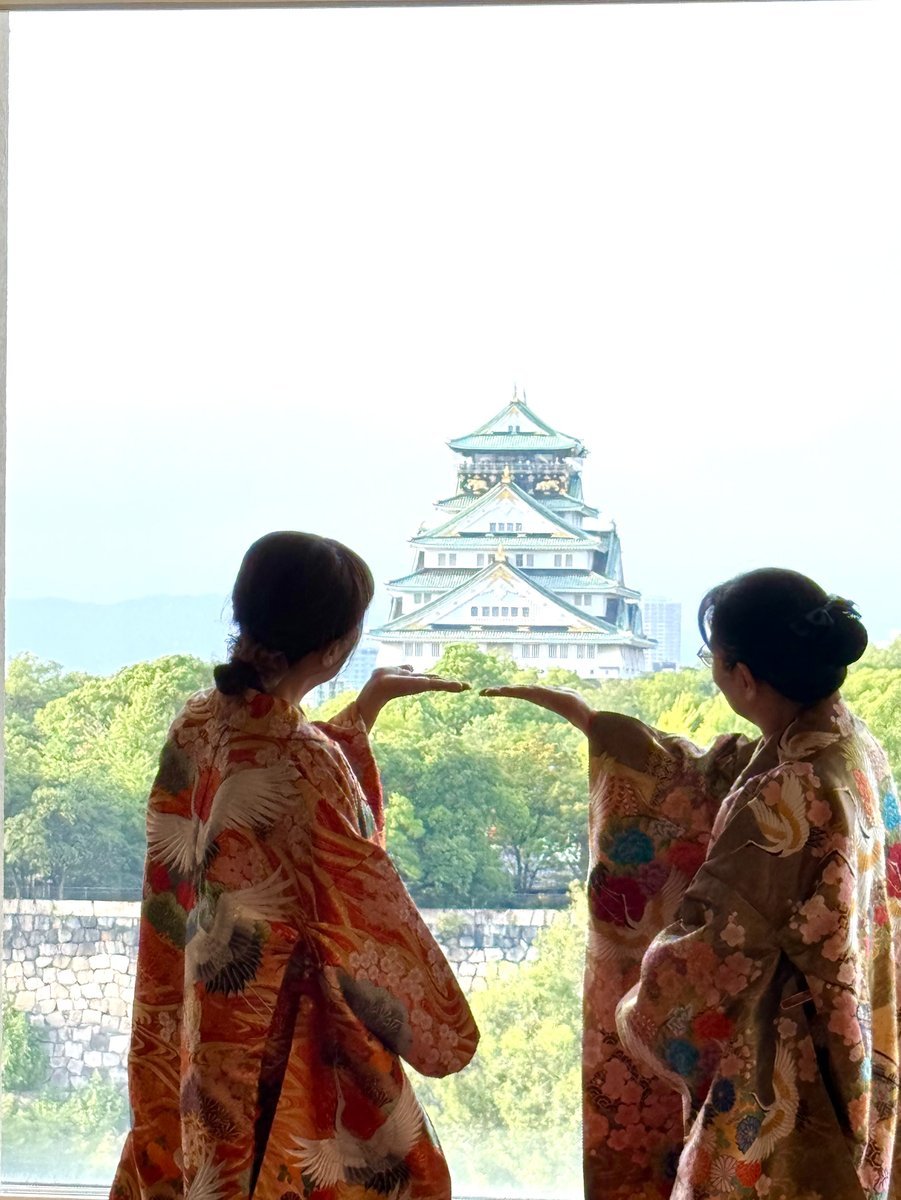
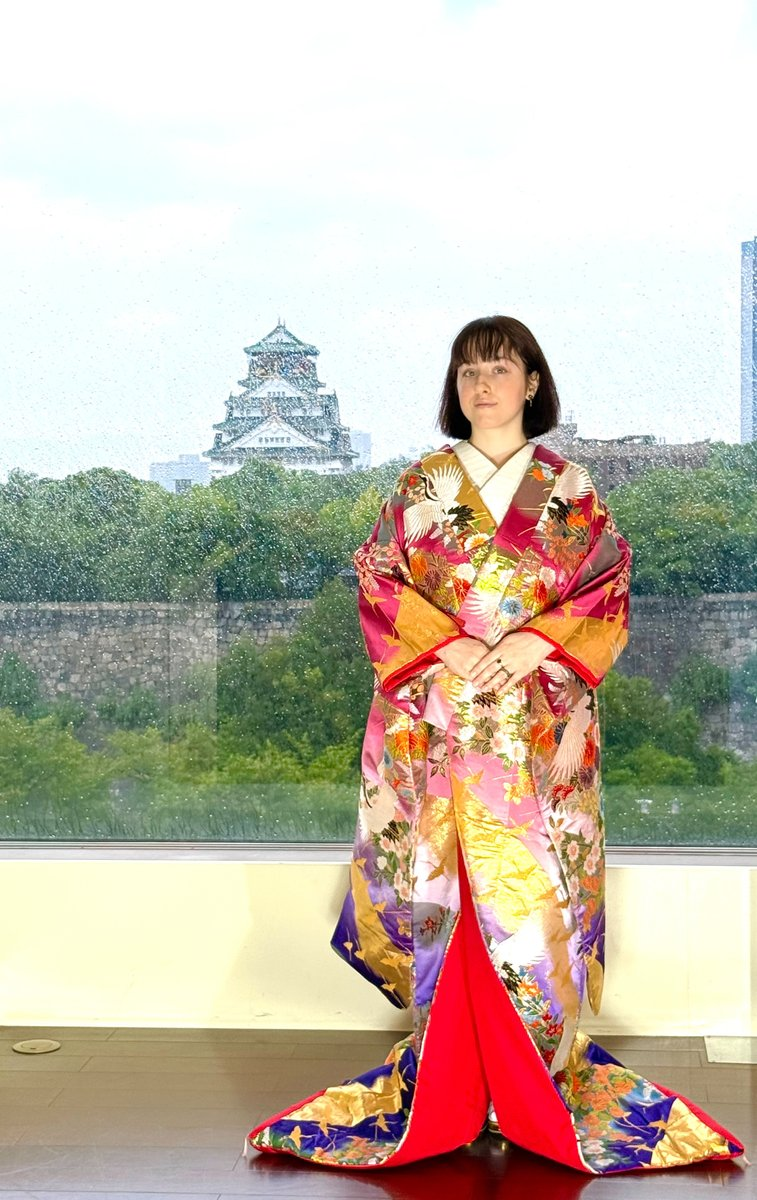
Let each plan's photo button show more than one shot
taiken/honkaku now each open a small set (front, side, back)
instead of a single fixed image, so a guest can see the plan
from more than one angle before choosing. Missing files still
degrade gracefully, same as the existing gallery.

diff --git a/index.html b/index.html
@@ -2052,12 +2052,12 @@
    * 押しても何も出ないほうが、お客様には不具合に見える。
    */
   var MENU_PHOTOS = {
-    taiken: 'images/taiken.jpg',
-    honkaku: 'images/honkaku.jpg',
+    taiken: ['images/taiken.jpg', 'images/kimono-11.jpg', 'images/kimono-12.jpg'],
+    honkaku: ['images/honkaku.jpg', 'images/kimono-13.jpg', 'images/kimono-14.jpg'],
   };
 
-  /** 写真が実在するか（調べ終わるまで undefined） */
-  var photoExists = {};
+  /** 実在が確認できた分だけ入る（調べ終わるまで undefined） */
+  var menuPhotosAvailable = {};
 
   /**
    * 導入スライドに流す写真。
@@ -2093,6 +2093,10 @@
     'images/kimono-8.jpg',
     'images/kimono-9.jpg',
     'images/kimono-10.jpg',
+    'images/kimono-11.jpg',
+    'images/kimono-12.jpg',
+    'images/kimono-13.jpg',
+    'images/kimono-14.jpg',
   ];
 
   /** 実在が確認できた分だけ入る */
@@ -2531,21 +2535,29 @@
    */
   function addPhotoButton(slot, menuId) {
     if (!slot) return;
-    var src = MENU_PHOTOS[menuId];
-    if (!src) return;
+    var candidates = MENU_PHOTOS[menuId];
+    if (!candidates || !candidates.length) return;
 
     // 一度調べた結果は覚えておく。
     // 言語を切り替えるとカードを作り直すため、毎回調べ直していると
     // 調べ終わる前に作り直され、ボタンが二度と出なくなる。
-    if (photoExists[menuId] === true) {
-      slot.appendChild(buildPhotoButton(menuId));
+    if (menuPhotosAvailable[menuId]) {
+      if (menuPhotosAvailable[menuId].length) slot.appendChild(buildPhotoButton(menuId));
       return;
     }
-    if (photoExists[menuId] === false) return;
 
-    var probe = new Image();
-    probe.onload = function () {
-      photoExists[menuId] = true;
+    var pending = candidates.length;
+    var found = [];
+    candidates.forEach(function (src, i) {
+      var probe = new Image();
+      probe.onload = function () { found[i] = src; if (--pending === 0) finish(); };
+      probe.onerror = function () { if (--pending === 0) finish(); };
+      probe.src = src;
+    });
+
+    function finish() {
+      menuPhotosAvailable[menuId] = found.filter(function (x) { return !!x; });
+      if (!menuPhotosAvailable[menuId].length) return;
       // 調べている間にカードが作り直された可能性があるので、
       // 現在の差し込み先を取り直す
       var current = document.querySelector(
@@ -2554,11 +2566,7 @@
       if (!target.querySelector('.photo-btn')) {
         target.appendChild(buildPhotoButton(menuId));
       }
-    };
-    probe.onerror = function () {
-      photoExists[menuId] = false;
-    };
-    probe.src = src;
+    }
   }
 
   /** 「こんな写真が撮れます」ボタンを作る */
@@ -2579,12 +2587,12 @@
   var viewerState = { list: [], index: 0, altKey: 'photoAlt', altArg: '' };
 
   function openPhotoViewer(menuId) {
-    var src = MENU_PHOTOS[menuId];
-    if (!src) return;
+    var list = menuPhotosAvailable[menuId];
+    if (!list || !list.length) return;
     var planName = MENU_NAMES[menuId]
       ? (MENU_NAMES[menuId][state.lang] || MENU_NAMES[menuId].en)
       : menuId;
-    viewerState = { list: [src], index: 0, altKey: 'photoAlt', altArg: planName };
+    viewerState = { list: list, index: 0, altKey: 'photoAlt', altArg: planName };
     el.viewerNote.textContent = t('photoNote');
     showViewer();
   }
